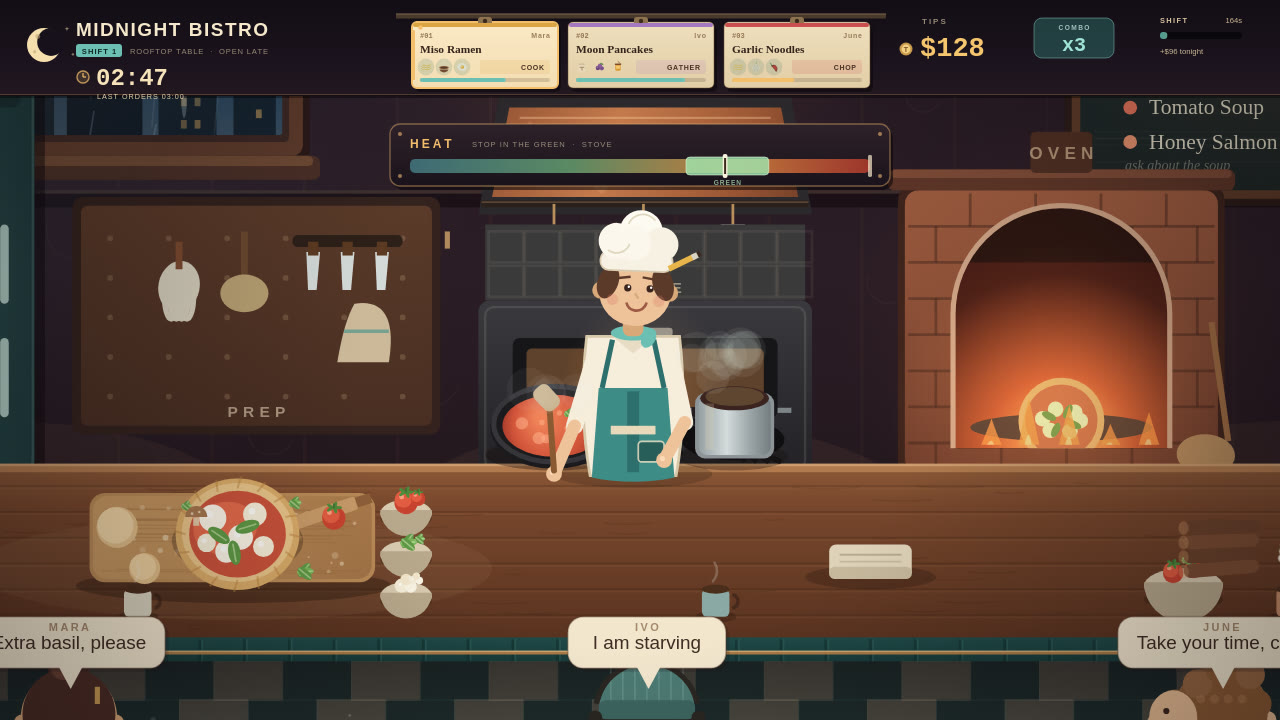
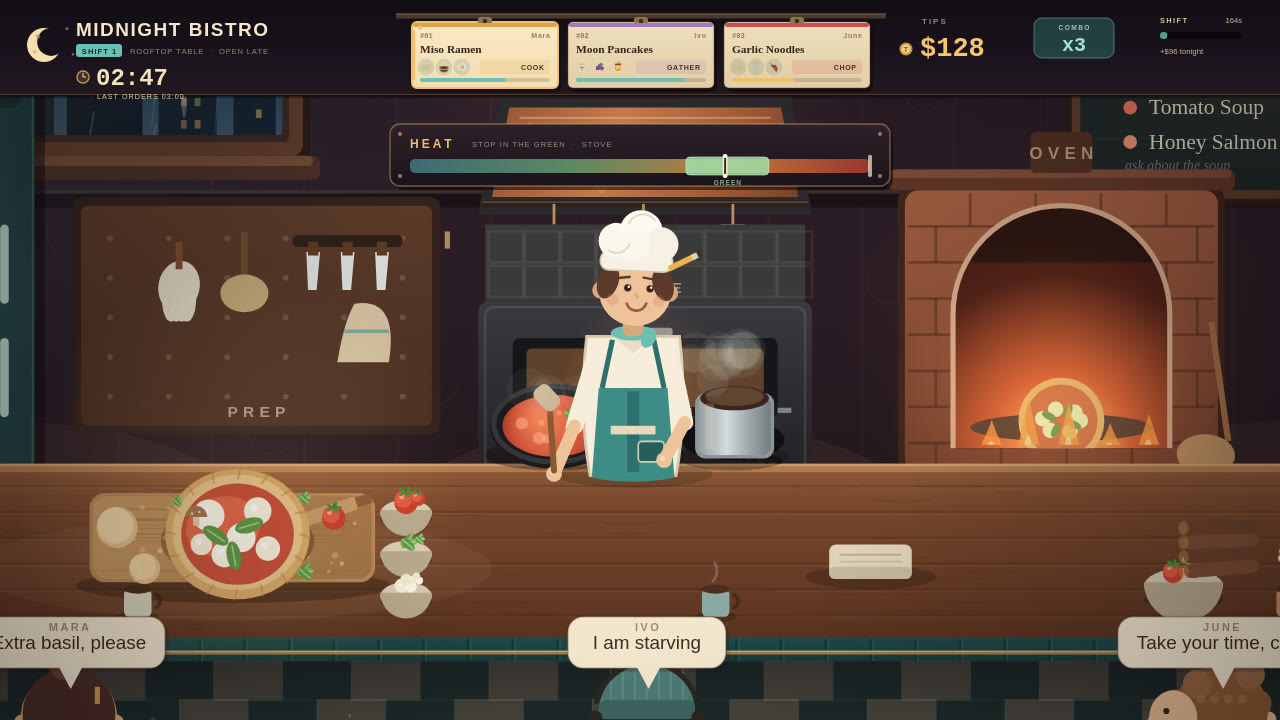
Make the basil sprig and the lit pass dish readable at judge size

Changed region(s): [[0.125, 0.6417, 0.25, 0.8556]]

diff --git a/game/src/player.js b/game/src/player.js
@@ -326,23 +326,49 @@ export function drawChef(ctx, game) {
   if (pose === 'chop') {
     drawKnife(ctx, hands[1].x + 2, hands[1].y + 2, -0.55, 1.4);
   } else if (pose === 'garnish') {
-    // a pinch of basil leaves falling from the fingers onto the pizza
+    // a whole basil sprig held between the fingers, leaves dropping to the pizza
     const hx = hands[1].x;
     const hy = hands[1].y;
-    for (let i = 0; i < 3; i++) {
-      const fx = hx - 3 + i * 6 + Math.sin(game.time * 2 + i) * 1.2;
-      const fy = hy + 12 + i * 7;
+    ctx.save();
+    ctx.translate(hx, hy);
+    ctx.strokeStyle = '#4a7534';
+    ctx.lineWidth = 1.7;
+    ctx.beginPath();
+    ctx.moveTo(-1, -1);
+    ctx.lineTo(2, 9);
+    ctx.stroke();
+    const sprig = [
+      [-4.2, 1.4, -0.55, 1.0],
+      [5.0, 2.4, 0.7, 1.05],
+      [0.4, 7.6, 0.05, 0.9],
+    ];
+    for (const [dx, dy, rot, s] of sprig) {
+      ctx.save();
+      ctx.translate(dx, dy);
+      ctx.rotate(rot);
+      ctx.fillStyle = '#7dbf57';
+      ctx.beginPath();
+      ctx.ellipse(0, 0, 5.4 * s, 2.7 * s, 0, 0, Math.PI * 2);
+      ctx.fill();
+      ctx.strokeStyle = '#3f6b2d';
+      ctx.lineWidth = 0.8;
+      ctx.stroke();
+      ctx.restore();
+    }
+    ctx.restore();
+    // the loose leaves dropping toward the pizza
+    for (let i = 0; i < 4; i++) {
+      const fx = hx + 1 + i * 4.4 + Math.sin(game.time * 2 + i) * 1.5;
+      const fy = hy + 16 + i * 6;
       ctx.save();
       ctx.translate(fx, fy);
-      ctx.rotate(0.5 - i * 0.45);
+      ctx.rotate(0.55 - i * 0.42);
       ctx.fillStyle = i % 2 ? '#6ea84f' : '#84bb5c';
       ctx.beginPath();
-      ctx.ellipse(0, 0, 3.4, 1.7, 0, 0, Math.PI * 2);
+      ctx.ellipse(0, 0, 4.1, 1.9, 0, 0, Math.PI * 2);
       ctx.fill();
       ctx.restore();
     }
-    circle(ctx, hx - 1.5, hy + 1, 1.4, '#84bb5c');
-    circle(ctx, hx + 2, hy + 2.5, 1.2, '#6ea84f');
   } else if (pose === 'stir') {
     drawSpatula(ctx, hands[0].x, hands[0].y - 2, -2.32 + Math.sin(game.time * 6) * 0.05);
   } else if (pose === 'bake') {

diff --git a/game/src/render.js b/game/src/render.js
@@ -1251,11 +1251,38 @@ function drawPassTop(ctx, game) {
   // plated tickets sit under the heat lamps; the hero bowl fills the middle lamp when the pass is clear
   const plated = game.orders.filter((o) => o && (o.plated || o.step === 'serve'));
   if (plated.length === 0) {
+    // the middle heat lamp pools straight down onto the plated hero dish
     ctx.save();
     ctx.globalCompositeOperation = 'lighter';
-    glow(ctx, 1114, 468, 72, '#ffcf82', 0.16);
+    const lampCone = ctx.createLinearGradient(0, 344, 0, 516);
+    lampCone.addColorStop(0, 'rgba(255,207,130,0.22)');
+    lampCone.addColorStop(1, 'rgba(255,196,118,0.05)');
+    ctx.fillStyle = lampCone;
+    ctx.beginPath();
+    ctx.moveTo(1105, 344);
+    ctx.lineTo(1123, 344);
+    ctx.lineTo(1150, 516);
+    ctx.lineTo(1080, 516);
+    ctx.closePath();
+    ctx.fill();
+    const pool = ctx.createRadialGradient(1104, 500, 4, 1104, 500, 86);
+    pool.addColorStop(0, 'rgba(255,216,148,0.34)');
+    pool.addColorStop(0.6, 'rgba(255,198,122,0.13)');
+    pool.addColorStop(1, 'rgba(255,190,116,0)');
+    ctx.fillStyle = pool;
+    ctx.beginPath();
+    ctx.ellipse(1104, 500, 92, 36, 0, 0, Math.PI * 2);
+    ctx.fill();
     ctx.restore();
-    drawDish(ctx, 1104, 498, recipeById('ramen'), 1.32, true);
+    drawDish(ctx, 1104, 500, recipeById('ramen'), 1.5, true);
+    // a bright rim keeps the plate from melting into the counter
+    ctx.save();
+    ctx.strokeStyle = withAlpha('#fff4d6', 0.8);
+    ctx.lineWidth = 1.7;
+    ctx.beginPath();
+    ctx.ellipse(1104, 499, 39, 12.6, 0, Math.PI * 1.03, Math.PI * 1.97);
+    ctx.stroke();
+    ctx.restore();
     // steam curls rising into the lamp light, so the pass reads as a pass
     ctx.save();
     ctx.strokeStyle = withAlpha('#ffe6bd', 0.26);
